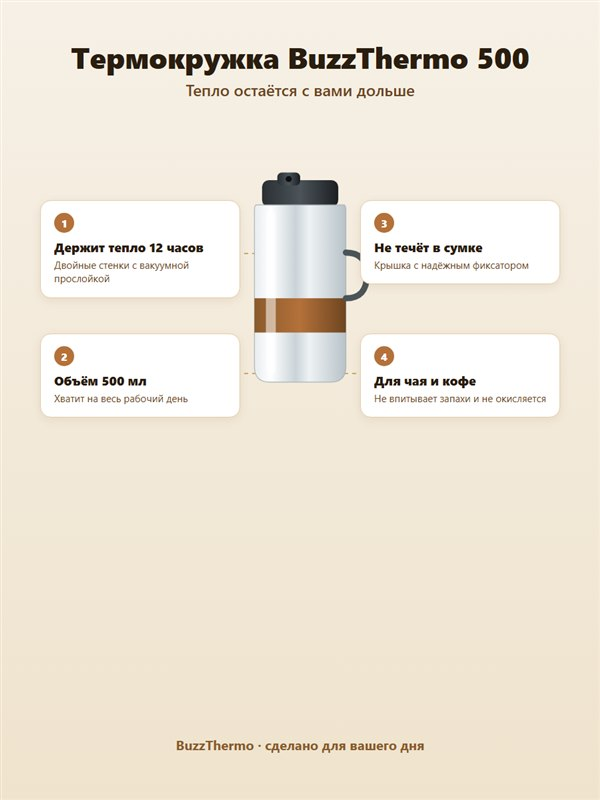
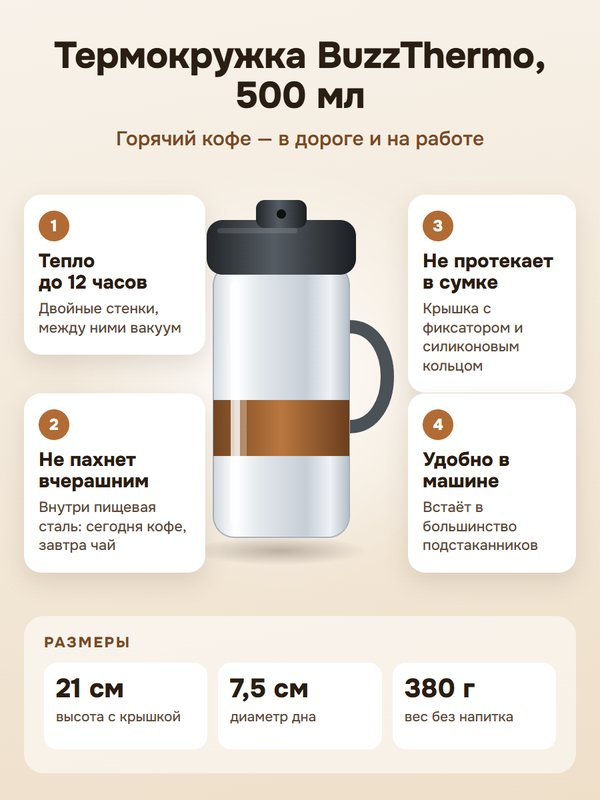
Карточки WB/Ozon: новые слайды и текстовая часть карточки
Слайды пересобраны: товар крупнее, пустое место занято плашками,
размерами и способом применения. У сыворотки убраны непроверяемые
обещания. Добавлен блок с текстовой частью карточки термокружки —
название, характеристики и описание отдельно для WB и Ozon.

diff --git a/index.html b/index.html
@@ -119,6 +119,14 @@
   .extra__example span{color:var(--muted)}
   .extra__example b{font-size:1.3rem;color:var(--text)}
   .extra__example small{color:var(--muted);font-size:.86rem;line-height:1.5}
+  .extra--wide{grid-column:1 / -1}
+  .ctext{display:grid;grid-template-columns:repeat(2,1fr);gap:14px;margin-top:6px}
+  .ctext__col{background:var(--ink);border:1px solid var(--line);border-radius:12px;padding:16px 18px;display:flex;flex-direction:column;gap:10px;font-size:.9rem}
+  .ctext__col h4{margin:0;font-size:.78rem;font-weight:800;letter-spacing:.12em;text-transform:uppercase;color:var(--accent)}
+  .ctext__col b{font-size:1rem;color:var(--text);line-height:1.35}
+  .ctext__col ul{margin:0;padding-left:18px;color:var(--muted)}
+  .ctext__col p{margin:0;color:var(--text);font-size:.9rem;line-height:1.55}
+  .ctext__col small{color:var(--muted);font-size:.8rem}
   .card{
     /* у figure браузерные отступы по 40px с боков — без обнуления
        карточка теряет половину ширины */
@@ -153,6 +161,7 @@
     .works{grid-template-columns:1fr}
     .cards{grid-template-columns:repeat(2,1fr);gap:14px}
     .extras{grid-template-columns:1fr}
+    .ctext{grid-template-columns:1fr}
     .work--wide{flex-direction:column}
     .work--wide .work__shot{flex:none;aspect-ratio:16/10;border-right:0;border-bottom:1px solid var(--line)}
     .contact{flex-direction:column;align-items:flex-start}
@@ -421,6 +430,39 @@
   </div>
 
   <div class="extras">
+    <article class="extra extra--wide">
+      <div class="extra__label">Текстовая часть карточки</div>
+      <h3>Термокружка: название, характеристики и описание — отдельно для WB и Ozon</h3>
+      <p>У площадок разные поля и поиск, поэтому тексты не копируются один в другой. Каждое преимущество отвечает на
+        сомнение покупателя: не протечёт ли в сумке, встанет ли в подстаканник, не будет ли пахнуть вчерашним чаем.
+        Без «лучшая» и «№1» — площадки просят такие слова подтверждать.</p>
+      <div class="ctext">
+        <div class="ctext__col">
+          <h4>Wildberries</h4>
+          <b>Термокружка 500 мл с крышкой для кофе и чая</b>
+          <small>Заголовок — 43 символа из 60</small>
+          <ul>
+            <li>Объём: 500 мл · сохранение тепла: до 12 часов</li>
+            <li>Колба: нержавеющая сталь 18/8</li>
+            <li>Высота 21 см · диаметр дна 7,5 см · 380 г</li>
+            <li>Уход: ручная мойка</li>
+          </ul>
+          <p>Термокружка BuzzThermo на 500 мл сохраняет напиток горячим до 12 часов: между двойными стенками — вакуум,
+            и тепло не уходит наружу. Налили кофе утром — он ещё тёплый к обеду.</p>
+        </div>
+        <div class="ctext__col">
+          <h4>Ozon</h4>
+          <b>Термокружка BuzzThermo 500 мл, автомобильная, с ручкой и крышкой-фиксатором, белая</b>
+          <small>В названии — ключи «автомобильная» и «с ручкой»: на Ozon название важнее для поиска</small>
+          <ul>
+            <li>Крышка с фиксатором не даёт напитку пролиться в сумке</li>
+            <li>Дно 7,5 см подходит к большинству подстаканников</li>
+            <li>Можно мыть в посудомоечной машине: нет</li>
+          </ul>
+          <p>Кофе остаётся горячим, пока вы едете на работу, сидите на совещании и возвращаетесь домой.</p>
+        </div>
+      </div>
+    </article>
     <article class="extra">
       <div class="extra__label">Дополнительно к карточкам</div>
       <h3>Расчёт юнит-экономики товара</h3>
